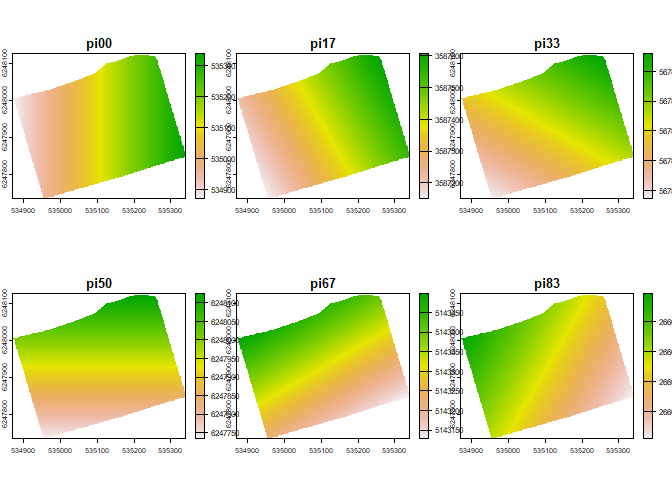
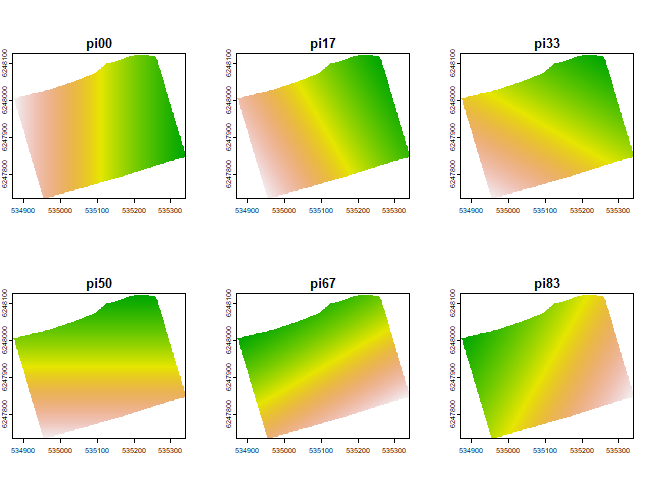
New figure for readme

diff --git a/README.md b/README.md
@@ -53,7 +53,7 @@ ogcs
 #> names       :     pi00,    pi17,    pi33,    pi50,    pi67,    pi83 
 #> min values  : 534871.2, 3587150, 5678172, 6247734, 5143128, 2660309 
 #> max values  : 535338.4, 3587606, 5678659, 6248124, 5143497, 2660792
-plot(ogcs)
+plot(ogcs, legend = FALSE)
 ```
 
 ![](README_files/figure-gfm/example1-1.png)<!-- -->
